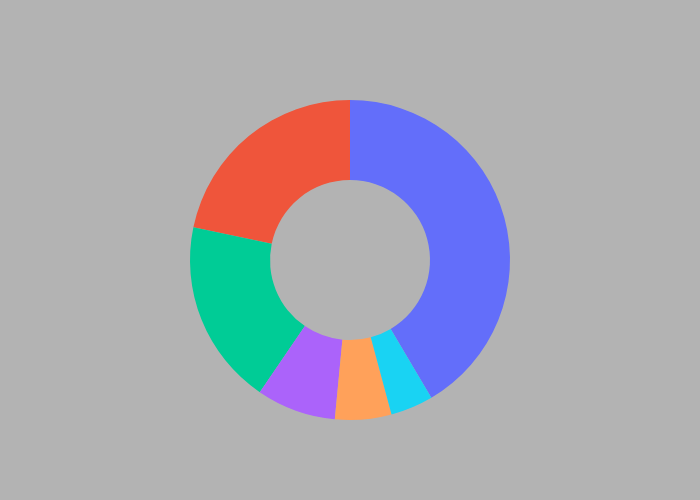
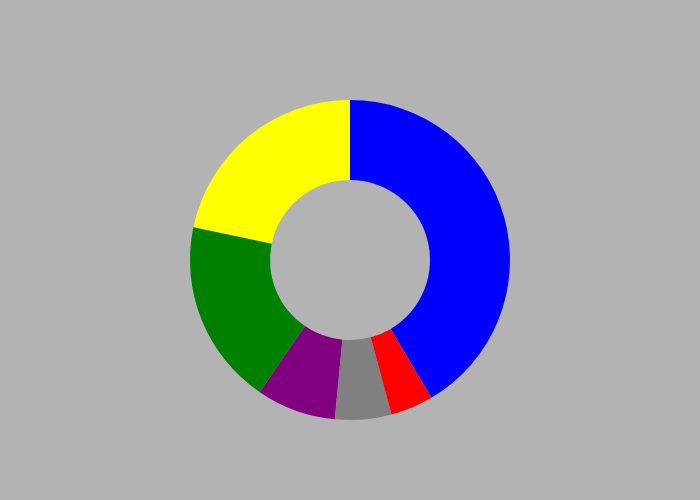
Added colours to expenditure chart

Changed region(s): [[0.27, 0.18, 0.75, 0.84]]

diff --git a/Main/Plots.py b/Main/Plots.py
@@ -75,9 +75,17 @@ class ExpenditureChart:
         data = self.collect_data()
         categories = [x[0] for x in data]
         totals = [(-1 * x[1]) for x in data]
+        colours = ['blue', 'red', 'green', 'yellow', 'purple', 'grey']
         fig = go.Figure(data=[go.Pie(labels=categories, values=totals, hole=.5)])
-        fig.update_traces(textinfo='none')
+        fig.update_traces(textinfo='none', marker=dict(colors=colours))
         fig.update_layout(showlegend=False, paper_bgcolor='rgba(0.7,0.7,0.7,1)',)
         if not exists("../Plots"):
             mkdir("../Plots")
         fig.write_image("../Plots/expenditure_chart.png")
+
+
+if __name__ == '__main__':
+    # balance_chart = BalanceChart()
+    # balance_chart.draw_chart('2021-01-01', '2021-12-31')
+    expenditure_chart = ExpenditureChart()
+    expenditure_chart.draw_chart()
